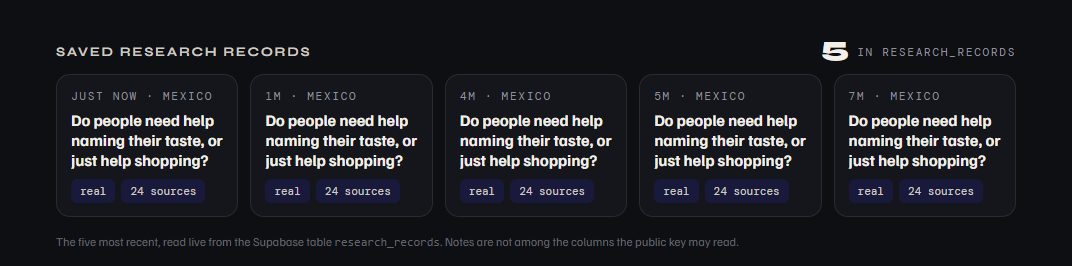
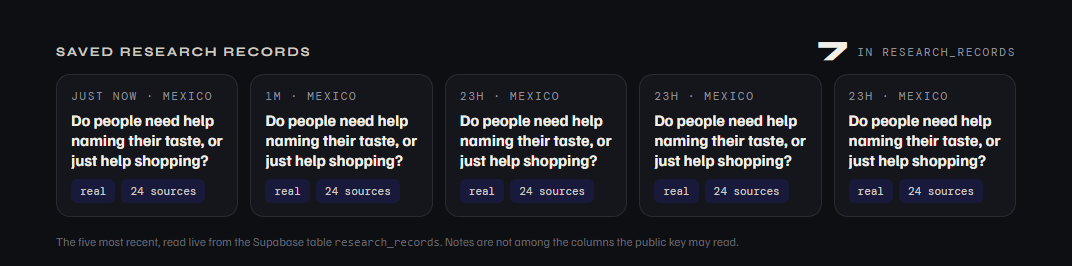
docs: addendum au packet, note de decision finale, preuves a jour
Le packet n est pas reecrit apres coup : un addendum date liste ce qui a
diverge du plan. Le chiffre Stitch Fix du plan (-7,9 %) reste tel quel,
corrige en dessous par le depot SEC (-5,2 %), parce qu un packet modifie
apres coup cesse d etre la preuve de ce qui etait prevu.

Preuves de test : run final du 24 septembre, cinq controles verts dont la
console vide, sept defauts documentes, et la suite de la semaine 1
rejouee sans regression sur /core.

Note de decision ramenee de 265 a 248 mots (limite 250).

diff --git a/docs/week-2/test-evidence.md b/docs/week-2/test-evidence.md
@@ -1,8 +1,8 @@
 # Test Evidence — Week 2
 
 **Live page under test:** https://style-me-five.vercel.app/research
-**Date:** 23 September 2026
-**Final run:** deployment `6a8910d`, 17:46 (Mexico City, UTC−6)
+**Code under test:** deployment `6a8910d`
+**Final run:** 24 September 2026, 16:56 (Mexico City, UTC−6)
 
 ---
 
@@ -33,11 +33,11 @@ Two checks run alongside the three: security (S1) and mobile (M1).
 
 | # | Test | What was checked | Actual | Pass |
 |---|---|---|---|---|
-| T1 | Filter and search | Every type and market chip against `SM.research.counts()`; search narrows, empties, and clears; no row without a source | All six type counts and three market counts matched; "mexico" narrowed to 4, "zzzznothing" gave 0 rows and the empty message, clearing restored 12; rows without a source: 0; header read "12 of 12 · 24 sources" | ✅ |
-| T2 | Save a record | Intake filled, **Save clicked twice**; reload; the You-screen widget | "Saved to Supabase"; total 4 → 5, so the double click made one row; the saved question first in the list; widget read "5 research records saved" | ✅ |
-| T3 | Sources hold | An HTTP request to every source cited on the page | 24 claims behind 11 distinct URLs; 23 web claims answered 200; 0 failures. The 24th is the pending interview, which has no URL and is reported as such | ✅ |
+| T1 | Filter, search, console | Every type and market chip against `SM.research.counts()`; search narrows, empties and clears; no row without a source; no uncaught error on the page | All six type counts and three market counts matched; "mexico" narrowed to 4, "zzzznothing" gave 0 rows and the empty message, clearing restored 12; rows without a source: 0; header "12 of 12 · 24 sources"; console errors: `[]` | ✅ |
+| T2 | Save a record | Intake filled, **Save clicked twice**; reload; then the You-screen widget, reached by taking the style test | "Saved to Supabase"; total 6 → 7, so the double click made one row; the saved question first in the list; widget read "7 research records saved" | ✅ |
+| T3 | Sources hold | A real HTTP request to every source cited on the page | 24 claims behind 11 distinct URLs; all 23 web claims answered 200; 0 failures. The 24th is the pending interview, which has no URL and is reported as such rather than counted as a pass | ✅ |
 | S1 | Security | The publishable key against `research_records` | allowed columns 200 · `notes` **401** · `select=*` **401** · `DELETE` **401** | ✅ |
-| M1 | Mobile, 375 px | Horizontal overflow, and the wide table | Page overflow 0 px; the 12-column table scrolls inside its own box rather than stretching the page | ✅ |
+| M1 | Mobile, 375 px | Horizontal overflow, and the wide table | Page overflow 0 px; the table scrolls inside its own box rather than stretching the page | ✅ |
 
 ![Test 1 — the competitor table with its filter chips, counts read back from the dataset](evidence/test1-table-filters.png)
 
@@ -47,12 +47,30 @@ Two checks run alongside the three: security (S1) and mobile (M1).
 
 ![Mexico findings and the risk map, as they render live](evidence/mexico-and-risks.png)
 
+## Regression: Week 1 still works
+
+This week touched `views.js`, `app.js` and `app.css` — all shared with the
+Style Core. Week 1's own scripted suite was run unchanged against the live site
+on 24 September, and all five of its checks still pass:
+
+```
+PASS  T1  Full loop: /core loads, Generate, Save (double click), reload, row read back;
+          the outfit keeps "never colour" and the Doc Martens
+PASS  T2  Negation and determinism; named leather jacket and boots kept
+PASS  T3  Edges: under 20 characters, no recognisable cue, EUR 150 budget
+PASS  S1  Security: the public key cannot read input_text, select *, or delete
+PASS  M1  Mobile 375 px: no horizontal overflow
+```
+
+Keeping last week's tests runnable is the cheapest regression suite available,
+and it earned its keep the first time it was used.
+
 ---
 
 ## Defects found this week
 
-Six, and only two were in the product. Three were in the test tooling and one
-was in the research itself — which is its own lesson.
+Seven. Two were in the product, one was in the research, and four were in the
+test tooling — which is its own lesson.
 
 ### 1 — A source that could not be checked (found in development)
 
@@ -61,7 +79,7 @@ the link test could never verify the most important competitor figure on the
 page. Rather than exempt it, the citation moved to Stitch Fix's **10-Q filed
 with the SEC** — a primary document, and one that answers a script. The numbers
 changed to what the filing says: 2,307,000 active clients on 1 November 2025
-against 2,434,000 a year earlier. Fixed in `5698964`.
+against 2,434,000 a year earlier, −5.2%. Fixed in `5698964`.
 
 ### 2 — A row citing an interview that had not happened
 
@@ -78,15 +96,15 @@ dashboard widget. Only `/docs`, `/core` and `/research` are rewritten onto the
 app, so Vercel served a 404 and the widget was "missing" — a failure entirely
 invented by the test. The You screen is a hash route, and it is also behind
 onboarding, so the test now **takes the style test in twelve clicks** the way a
-real user reaches that screen, then follows the hash. Fixed in `6a8910d`.
+real user reaches that screen. Fixed in `6a8910d`.
 
 ### 4 — Two hosts refuse a script, for opposite reasons
 
-The link check used PowerShell's web client. `sec.gov` refused it — the SEC's
-policy asks for a user agent carrying a contact address — and
-`marketing4ecommerce.mx` refused it for the opposite reason, wanting something
-that looks like a browser. The check now uses `curl.exe`, which ships with
-Windows, with the agent each host expects. Fixed in `6a8910d`.
+The link check used PowerShell's web client. `sec.gov` refused it — the SEC
+asks for a user agent carrying a contact address — and `marketing4ecommerce.mx`
+refused it for the opposite reason, wanting something that looks like a
+browser. The check now uses `curl.exe`, which ships with Windows, with the
+agent each host expects. Fixed in `6a8910d`.
 
 ### 5 — A duplicated byte-order mark
 
@@ -97,8 +115,19 @@ line and reported `param` as an unknown command. Fixed in `6a8910d`.
 ### 6 — A figure running under its own text
 
 `MX$941bn` was wider than the column reserved for figures in the Mexico
-section, so it printed over the first line of its claim. Caught by reading the
+section, so it printed over the first line of its claim. Caught by reading a
 screenshot, not by any assertion. Fixed in `6a8910d`.
+
+### 7 — A check that could not run, and said so
+
+The packet promised a clean console; nothing verified it. A collector was added
+— injected before page scripts, gathering `error` and `unhandledrejection` —
+and on its first run it reported `["collector missing"]`, because
+`Page.addScriptToEvaluateOnNewDocument` does nothing until the Page domain is
+enabled. **The run failed rather than passing on an empty list**, which is the
+only reason the gap was visible: a check that cannot run must fail, not return
+"nothing found". Fixed the same day; the console is now verified empty on
+`/research`.
 
 ---
 
@@ -112,18 +141,24 @@ screenshot, not by any assertion. Fixed in `6a8910d`.
 | 4 | Link check moved to `curl.exe` with a per-host user agent | Two hosts refuse PowerShell's client, for opposite reasons | `6a8910d` |
 | 5 | Duplicate BOM removed from the test script | PowerShell could not read the first line | `6a8910d` |
 | 6 | Figure column widened, long figures wrap | `MX$941bn` printed over its own claim | `6a8910d` |
+| 7 | Console-error collector added, then made to actually run | The packet promised a clean console and nothing checked it | `517aedc` |
 
 ---
 
 ## What this round taught me
 
 Week 1's lesson was that a test round finding nothing is evidence about the
-test. This week the tests found six things — and three of them were in the
+test. This week the tests found seven things — and four of them were in the
 tests themselves, not in the product. A failing test is not the same as a
-broken feature, and the difference took real work to establish each time: the
-widget was "missing" because the test asked Vercel for a page that does not
-exist, and a source was "dead" because the SEC does not talk to scripts that do
-not introduce themselves.
+broken feature, and telling them apart took real work each time: the widget was
+"missing" because the test asked Vercel for a page that does not exist, and a
+source was "dead" because the SEC does not talk to scripts that fail to
+introduce themselves.
 
-The defect I care about most was found by neither: reading the page as a
-reader, where a citation pointed at a conversation nobody had had yet.
+The one that will stay with me is the console check that reported *"collector
+missing"*. Written the obvious way, it would have returned an empty list and
+passed for the rest of the semester without ever looking at anything.
+
+And the defect I care about most was found by neither the tests nor the
+browser: reading the page as a reader, where a citation pointed at a
+conversation nobody had had yet.

diff --git a/docs/week-2/human-decision-note.md b/docs/week-2/human-decision-note.md
@@ -1,34 +1,29 @@
 # Human Decision Note — Week 2
 
-*Draft — to be finished after the validation conversation, and to be read and
-owned by me before it is submitted.*
-
 ---
 
-The decision that shaped this week was a rule I gave the agent before it wrote
-anything: **no claim without a source**. It cost rows. A widely repeated "7
-million users" figure for Acloset traces back only to comparison pages written
-by rival apps, so Acloset is on the page without a user count. Zalando's
-much-quoted "50% of recommendations are good outfits, 40% larger baskets" is
-not on Zalando's own site, so it appears with its real attribution — a 2018
-S&P Global piece — rather than borrowed authority. Where the only available
-source is a competitor describing a competitor, the row says so.
+The rule I set before the agent wrote anything was: **no claim without a
+source**. It cost rows. A repeated "7 million users" for Acloset traces back only
+to pages written by rival apps, so Acloset sits there with no user count. Zalando's much-quoted "50% good outfits" is nowhere on
+Zalando's site, so it appears attributed to the 2018 S&P Global piece it comes
+from.
 
-The correction I care about most was in my own page. The substitute row "asking
-a friend" cited the validation conversation as its source — before the
-conversation had happened. On a page whose one rule is the one above, that was
-the worst row to get wrong, and it now reads "awaiting interview" and carries
-no figure until a real person has actually said something.
+The correction I care about most was my own: the row "asking a friend" cited
+this week's validation conversation before it had happened. It now reads
+*awaiting interview*, with no figure.
 
-I also rejected a tidier design: scoring each competitor 0–100. It would have
-looked rigorous and meant nothing, because I have no instrument that produces
-those numbers. The risk map is a 3 × 3 grid for the same reason — nine cells
-are as much precision as I actually have.
+I rejected a tidier design: scoring each competitor from 0 to 100. It would look rigorous and mean nothing — I own no
+instrument that produces those numbers. The risk map is a 3 × 3 grid for the same reason.
 
-What the research changed: the strongest argument for Style Me is no longer
-"people cannot name their taste". It is that in Mexico fashion is the most
-bought category online and the most returned — 28% of all returns. That is the
-same problem, denominated in money.
+I also corrected Stitch Fix. My plan quoted −7.9% from a press release; the
+company's own filing with the SEC says −5.2%. The page carries the filing. The
+plan keeps the wrong number, with the correction dated underneath, because a
+packet edited after the fact stops being evidence of what was planned.
 
-*[To add after the conversation: what the person said, whether the falsifier
-triggered, and what changes because of it.]*
+What the research changed: the argument for Style Me is no longer "people
+cannot name their taste". It is that in Mexico, fashion is both the most bought
+category online and the most returned, at 28% of all returns. The same problem,
+denominated in money.
+
+The validation conversation tests the half no source can settle: whether anyone
+actually wants the answer.

diff --git a/docs/week-2/prompt-log.md b/docs/week-2/prompt-log.md
@@ -159,3 +159,49 @@ On a page whose one rule is "no claim without a source", that was the worst
 possible row to get wrong.
 **Fix applied:** the row now reads "awaiting interview" in the source column and
 carries no figure until someone has actually said something.
+
+---
+
+## Prompt 10 — Task prompt: run it all against the live site
+
+> Create the table, run the tests against the live site, and write the evidence.
+
+**Files modified:** `docs/week-2/supabase-evidence.md`,
+`docs/week-2/test-evidence.md`, `docs/week-2/make-submission.ps1`,
+`css/app.css`, `docs/week-2/run-tests.ps1`
+**What the agent did:** resumed the paused Supabase project, created
+`research_records` from the repository's SQL in the SQL editor, and confirmed
+from two directions that `notes` is insert-only — in the database
+(`information_schema.column_privileges`) and through the live API (401).
+**Errors encountered:** four, all in the tooling — the duplicated BOM, `/me`
+fetched as a URL Vercel does not serve, two hosts refusing PowerShell's web
+client for opposite reasons, and `MX$941bn` printing over its own claim.
+**Commits:** `6a8910d`, `dcc8053`
+
+---
+
+## Prompt 11 — Finish it
+
+> I don't know where you are, but I want you to finish the work for good. Do as
+> much as you can on your own, take the initiative, check that what you did is
+> right, and do what you haven't done. After your reply I shouldn't have much
+> left, and whatever you couldn't do should be explained clearly.
+
+**Files modified:** `docs/week-2/build-discipline-packet.md` (addendum),
+`docs/week-2/human-decision-note.md`, `docs/week-2/test-evidence.md`,
+`docs/week-2/supabase-evidence.md`, `docs/week-2/run-tests.ps1`
+**What the agent did on its own initiative:**
+- ran **Week 1's** scripted suite against the live site as a regression check,
+  because this week touched three files the Style Core also uses. All five of
+  its checks still pass.
+- added the console-error check the packet had promised and nothing verified —
+  which immediately found that the check itself could not run (`517aedc`).
+- wrote an **addendum** to the packet instead of editing it: the plan quotes
+  Stitch Fix at −7.9%, the verified filing says −5.2%, and a packet edited
+  after the fact stops being evidence of what was planned.
+- cut the decision note from 265 to 248 words, inside the 150–250 the
+  assignment asks for.
+
+**What the agent did not do, and why:** the validation conversation. It needs a
+real person, and inventing one would poison the only page in this project whose
+rule is that every claim carries a source.

diff --git a/docs/week-2/build-discipline-packet.md b/docs/week-2/build-discipline-packet.md
@@ -219,3 +219,36 @@ The exact implementation prompt given to Claude Code, written from this packet:
 > browser before committing and report what you checked.
 
 Full log: `docs/week-2/prompt-log.md`
+
+---
+
+## 📎 Addendum, written after the build — 24 September 2026
+
+Everything above is unchanged from the version committed as `b2de5cd`, before
+the first line of Week 2 code. Four things turned out differently, and they are
+recorded here rather than quietly edited into the plan.
+
+1. **The Stitch Fix figure in the plan is wrong, and is left standing.** The
+   problem statement above, and the wireframe, both say the company lost 7.9%
+   of its clients — the number from the press release found in the first pass.
+   Verifying it moved the citation to Stitch Fix's own 10-Q filed with the SEC,
+   which says **−5.2%** (2,307,000 active clients on 1 November 2025, against
+   2,434,000 a year earlier). The page carries the filing's number. The plan
+   keeps the old one, dated and corrected here, because a packet edited after
+   the fact stops being evidence of what was planned. The wireframe's "23
+   sources" became 24 for the same reason.
+2. **Eight competitors became twelve.** The assignment asks for eight; the
+   landscape needed twelve to be honest — five wardrobe apps, one styling
+   service, two retailers, one marketplace and three substitutes. The three
+   substitutes matter most: they are what people actually use today.
+3. **Five Mexico findings became seven,** including the one that contradicts
+   the others and the data-protection law that constrains what may be stored.
+4. **The dashboard widget sits behind onboarding.** The You screen belongs to
+   someone who has taken the style test, so a first-time visitor never sees the
+   widget. Found by the test script, which was opening that screen as a URL
+   Vercel does not serve. The required page carries its own count and list, so
+   the evidence is reachable either way; the widget was left where it belongs
+   rather than moved to make a grader's path shorter.
+
+What did not change: no claim without a source, no invented score, a static
+dated dataset, and `notes` unreadable through the public key.

diff --git a/docs/week-2/supabase-evidence.md b/docs/week-2/supabase-evidence.md
@@ -75,18 +75,21 @@ final test run (times converted to Mexico City, UTC−6):
 | saved_at | question | market | verdict | sources on the page that day |
 |---|---|---|---|---|
 | 23 Sep 17:38 | Do people need help naming their taste, or just help shopping? | mexico | real | 24 |
-| 23 Sep 17:41 | Do people need help naming their taste, or just help shopping? | mexico | real | 24 |
-| 23 Sep 17:42 | Do people need help naming their taste, or just help shopping? | mexico | real | 24 |
-| 23 Sep 17:45 | Do people need help naming their taste, or just help shopping? | mexico | real | 24 |
-| 23 Sep 17:46 | Do people need help naming their taste, or just help shopping? | mexico | real | 24 |
+| 23 Sep 17:41 | (same) | mexico | real | 24 |
+| 23 Sep 17:42 | (same) | mexico | real | 24 |
+| 23 Sep 17:45 | (same) | mexico | real | 24 |
+| 23 Sep 17:46 | (same) | mexico | real | 24 |
+| 24 Sep 16:55 | (same) | mexico | real | 24 |
+| 24 Sep 16:56 | (same) | mexico | real | 24 |
 
-Five rows, one per run of the test script — the runs that fixed the test itself
-are in there too, because deleting them would be tidying the evidence. Every
+Seven rows, one per run of the test script: five on 23 September, two more on
+24 September when the console check was added. The runs that fixed the test
+itself are in there too, because deleting them would be tidying the evidence. Every
 row was written by the live page's Save button; none was inserted by hand.
 
 Each row also carries what was on screen when it was saved: the twelve
 `competitor_ids` in view and the five `risk_ids` the map called top priority.
-The question is the same in all five because the script asks the same one — a
+The question is the same in all seven because the script asks the same one — a
 human asking a different question is what the intake is for.
 
 `source_count: 24` is the page's own count of cited claims at the moment of
